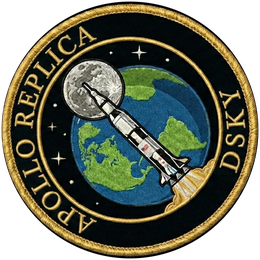
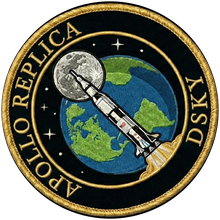
Shrink Plymouth watermark from 260px to 220px
Gives more breathing room between the patch and the progress throbber
below it.

diff --git a/Programs/orangepi-utilities/generate-assets.py b/Programs/orangepi-utilities/generate-assets.py
@@ -73,7 +73,7 @@ print(f"[3/4] wrote {FAVICON.relative_to(ROOT)}  (sizes: {ico_sizes})")
 # The orangepi Plymouth theme centers the watermark and draws the progress
 # throbber at y = 0.8 * screen_height. On a 544-tall framebuffer that's
 # y ≈ 435, so a centered watermark must be under ~260px tall to clear it.
-WM_SIZE = 260
+WM_SIZE = 220
 wm = patch.rotate(90, expand=True, resample=Image.BICUBIC).resize(
     (WM_SIZE, WM_SIZE), Image.LANCZOS
 )
